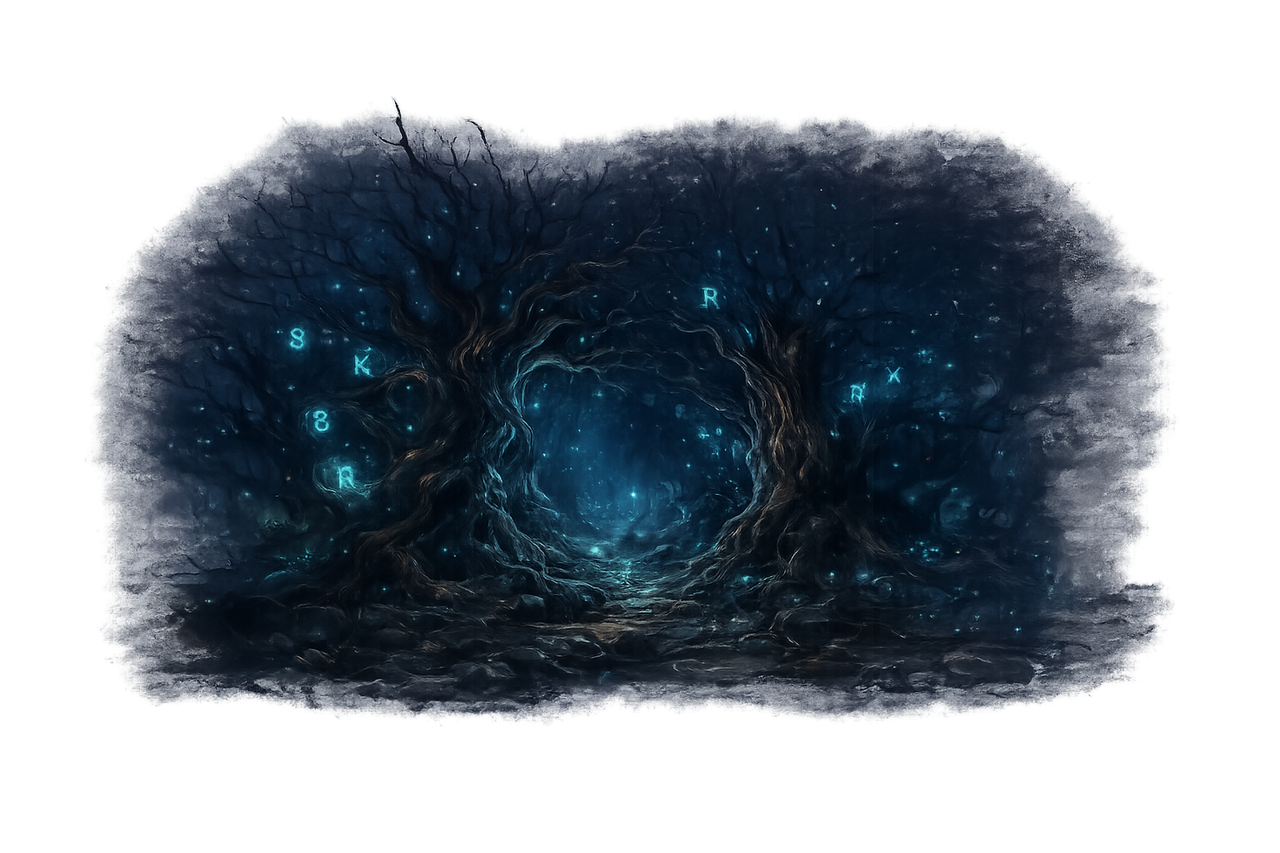
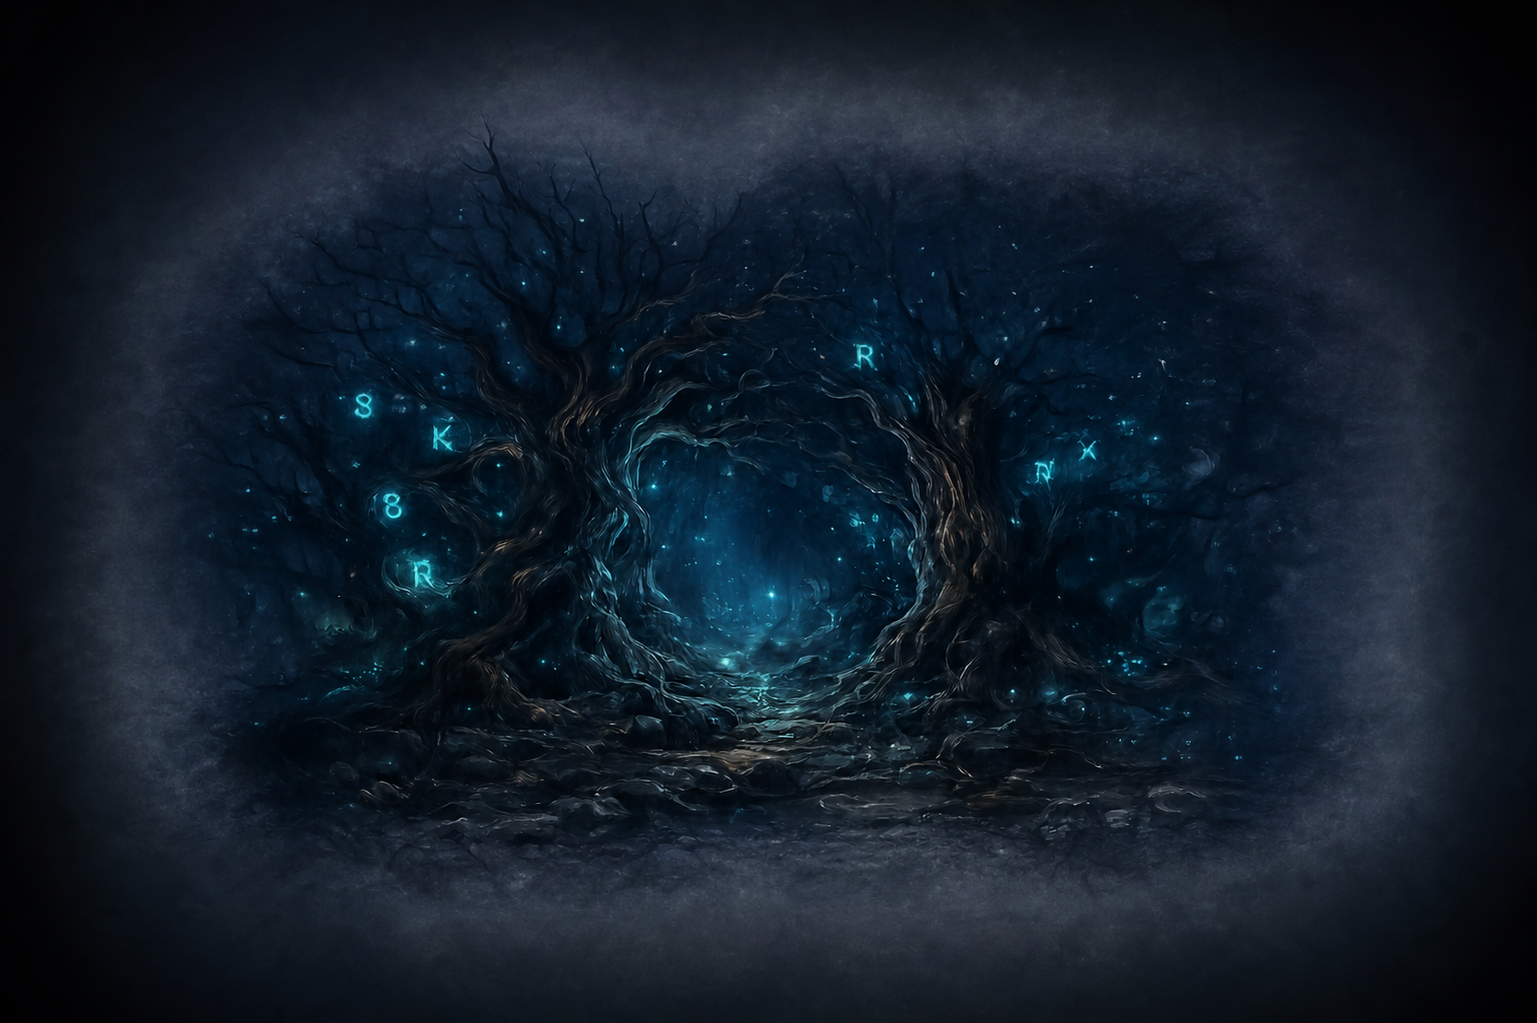
Фиксанул карту - теперь изображения не так агрессивно наслаиваются, сами изображения тоже заменил для достижения нужного эффекта

diff --git a/frontend/roadmap.html b/frontend/roadmap.html
@@ -4,7 +4,7 @@
 <head>
   <meta charset="UTF-8" />
   <meta name="viewport" content="width=device-width, initial-scale=1.0" />
-  <title>Дорожная карта — Путь Ведьмака</title>
+  <title>Дорожная карта</title>
   <script src="https://cdn.tailwindcss.com"></script>
   <link
     href="https://fonts.googleapis.com/css2?family=Cinzel:wght@400;600;700&family=Raleway:wght@300;400;500;600&display=swap"
@@ -18,15 +18,15 @@
 
     body {
       font-family: 'Raleway', sans-serif;
-      background-color: #081410;
+      background-color: #050a0a;
       overflow-x: hidden;
       background:
-        linear-gradient(rgba(8, 20, 16, 0.85),
-          rgba(8, 20, 16, 0.95)),
+        radial-gradient(ellipse at 20% 50%, rgba(20, 40, 30, 0.6) 0%, transparent 60%),
+        radial-gradient(ellipse at 80% 50%, rgba(40, 30, 15, 0.5) 0%, transparent 60%),
+        linear-gradient(180deg, rgba(5, 10, 10, 0.92) 0%, rgba(8, 16, 14, 0.85) 40%, rgba(5, 10, 10, 0.95) 100%),
         url('./images/roadmap_page_background.jpg') center / cover no-repeat fixed;
 
-      background-color: #081410;
-      /* fallback */
+      background-color: #050a0a;
     }
 
     .title-font {
@@ -39,7 +39,7 @@
       overflow-y: hidden;
       cursor: grab;
       scrollbar-width: thin;
-      scrollbar-color: rgba(52, 211, 153, 0.45) rgba(8, 20, 16, 0.5);
+      scrollbar-color: rgba(197, 166, 124, 0.45) rgba(5, 10, 10, 0.5);
       -webkit-overflow-scrolling: touch;
     }
 
@@ -52,16 +52,16 @@
     }
 
     .map-scroll::-webkit-scrollbar-track {
-      background: rgba(8, 20, 16, 0.5);
+      background: rgba(5, 10, 10, 0.5);
     }
 
     .map-scroll::-webkit-scrollbar-thumb {
-      background: rgba(52, 211, 153, 0.45);
+      background: rgba(197, 166, 124, 0.45);
       border-radius: 3px;
     }
 
     .map-scroll::-webkit-scrollbar-thumb:hover {
-      background: rgba(52, 211, 153, 0.75);
+      background: rgba(197, 166, 124, 0.75);
     }
 
     .map-canvas {
@@ -73,7 +73,7 @@
       position: absolute;
       inset: 0;
       z-index: 0;
-      background: #081410 url('./images/roadmap_back.png') center / cover no-repeat;
+      background: #050a0a url('./images/roadmap_back.png') center / cover no-repeat;
     }
 
     .node-img {
@@ -108,13 +108,10 @@
       z-index: 2;
       pointer-events: none;
       background: linear-gradient(to bottom,
-          rgba(8, 20, 16, 0.78) 0%, transparent 16%,
-          transparent 78%, rgba(8, 20, 16, 0.88) 100%);
+          rgba(5, 10, 10, 0.82) 0%, transparent 16%,
+          transparent 78%, rgba(5, 10, 10, 0.92) 100%);
     }
 
-    /* ══════════════════════════════════════
-       ТУМАН — накладываем PNG-спрайты
-    ══════════════════════════════════════ */
     .fog-layer {
       position: absolute;
       top: 0;
@@ -122,7 +119,6 @@
       z-index: 25;
       pointer-events: none;
       overflow: hidden;
-      /* Мягкое появление слева */
       -webkit-mask-image: linear-gradient(to right,
           transparent 0%, rgba(0, 0, 0, .2) 5%, rgba(0, 0, 0, .65) 15%, #000 28%, #000 100%);
       mask-image: linear-gradient(to right,
@@ -132,16 +128,13 @@
     .fog-sprite {
       position: absolute;
       background-image: url('./images/fog.png');
-      /* ← твой PNG */
       background-repeat: no-repeat;
       background-size: 100% 100%;
-      /* Белый фон → чёрный, дым → светлый; screen убирает чёрное */
       filter: invert(1) brightness(1.1) contrast(0.95);
       mix-blend-mode: screen;
       will-change: transform;
     }
 
-    /* Плавный дрейф */
     @keyframes fog-drift-a {
       0% {
         transform: translate3d(0, 0, 0) scaleX(1);
@@ -233,22 +226,22 @@
     }
 
     .node-icon.completed {
-      border-color: #34d399;
-      background: rgba(13, 35, 24, 0.88);
-      color: #34d399;
-      box-shadow: 0 0 18px rgba(52, 211, 153, 0.5), 0 0 40px rgba(52, 211, 153, 0.2);
+      border-color: #c5a67c;
+      background: rgba(10, 18, 14, 0.88);
+      color: #c5a67c;
+      box-shadow: 0 0 18px rgba(197, 166, 124, 0.45), 0 0 40px rgba(197, 166, 124, 0.2);
     }
 
     .node-icon.active {
-      border-color: #fbbf24;
-      background: rgba(26, 20, 8, 0.88);
-      color: #fbbf24;
-      box-shadow: 0 0 18px rgba(251, 191, 36, 0.5), 0 0 40px rgba(251, 191, 36, 0.2);
+      border-color: #d4a843;
+      background: rgba(30, 22, 8, 0.9);
+      color: #d4a843;
+      box-shadow: 0 0 25px rgba(212, 168, 67, 0.6), 0 0 50px rgba(212, 168, 67, 0.25);
     }
 
     .node-icon.locked {
       border-color: #6b7280;
-      background: rgba(20, 24, 26, 0.65);
+      background: rgba(16, 20, 20, 0.65);
       color: #b6bcc2;
       backdrop-filter: blur(2px);
     }
@@ -273,9 +266,9 @@
       width: 40px;
       height: 40px;
       border-radius: 50%;
-      border: 1px solid rgba(52, 211, 153, 0.35);
-      background: rgba(8, 20, 16, 0.75);
-      color: #34d399;
+      border: 1px solid rgba(197, 166, 124, 0.35);
+      background: rgba(5, 10, 10, 0.75);
+      color: #c5a67c;
       display: flex;
       align-items: center;
       justify-content: center;
@@ -292,7 +285,7 @@
     }
 
     .nav-btn:hover {
-      background: rgba(52, 211, 153, 0.15);
+      background: rgba(197, 166, 124, 0.15);
     }
 
     .nav-btn.left {
@@ -304,7 +297,7 @@
     }
 
     .quote-box {
-      border: 1px solid rgba(52, 211, 153, 0.3);
+      border: 1px solid rgba(197, 166, 124, 0.3);
       background: rgba(0, 0, 0, 0.3);
       backdrop-filter: blur(8px);
     }
@@ -333,10 +326,10 @@
 <body>
 
   <div class="w-full text-center pt-12 pb-10 px-4">
-    <p class="text-[#4ade80] tracking-[0.4em] text-xs uppercase mb-4 title-font">Путь Книгочея</p>
+    <p class="text-[#c5a67c] tracking-[0.4em] text-xs uppercase mb-4 title-font">Путь Книгочея</p>
     <h1 class="text-4xl sm:text-6xl font-bold mb-6 leading-tight">
       <span class="text-white title-font">Дорожная </span>
-      <span class="text-[#d4a843] title-font">карта</span>
+      <span class="text-[#d4b483] title-font">карта</span>
     </h1>
     <p class="text-gray-400 text-sm sm:text-base max-w-lg mx-auto leading-relaxed">
       Путь к мастерству долог и полон испытаний. Следи за этапами развития<br class="hidden sm:block" />
@@ -373,7 +366,7 @@
       <p class="text-gray-300 text-xs sm:text-sm text-center italic leading-relaxed">
         «Каждая страница приближает к истине, каждый шаг — к себе настоящему»
       </p>
-      <svg class="w-5 h-5 text-[#34d399] flex-shrink-0 opacity-50" fill="currentColor" viewBox="0 0 24 24">
+      <svg class="w-5 h-5 text-[#c5a67c] flex-shrink-0 opacity-50" fill="currentColor" viewBox="0 0 24 24">
         <path
           d="M3 17.25V21h3.75L17.81 9.94l-3.75-3.75L3 17.25zM20.71 7.04a1 1 0 000-1.41l-2.34-2.34a1 1 0 00-1.41 0l-1.83 1.83 3.75 3.75 1.83-1.83z" />
       </svg>
@@ -381,7 +374,6 @@
   </div>
 
   <script>
-    /* ═══════════ ДАННЫЕ ═══════════ */
     const NODES = [
       { title: 'Долина\nПервых Строк', status: 'completed', statusLabel: 'Пройдено', image: './images/dolina.png', wave: 0.85 },
       { title: 'Замок\nСпящего Дракона', status: 'completed', statusLabel: 'Пройдено', image: './images/dragon.png', wave: 0.25 },
@@ -392,36 +384,26 @@
     ];
 
     const CFG = {
-      nodeStep: 350, minStep: 180, sidePad: 130, imgRatio: 1.85,
+      nodeStep: 550, minStep: 180, sidePad: 130, imgRatio: 1.9,
       iconBottomMin: 0.14, iconBottomMax: 0.42,
-      fogLeadIn: 0.7,        // насколько туман заходит влево от первого locked (в долях step)
+      fogLeadIn: 0.7,
     };
 
-    /* Раскладка спрайтов тумана.
-       x/y/w/h — доли от размера fog-зоны. Спрайты перекрываются → сплошная пелена. */
     const FOG_SPRITES = [
-      // Нижний ярус — самый плотный, покрывает весь низ
       { x: -0.15, y: 0.55, w: 0.70, h: 0.80, op: 0.75, anim: 'fog-drift-a', dur: 38, delay: 0, flip: false },
       { x: 0.25, y: 0.50, w: 0.75, h: 0.75, op: 0.70, anim: 'fog-drift-b', dur: 44, delay: -10, flip: true },
       { x: 0.55, y: 0.52, w: 0.65, h: 0.72, op: 0.68, anim: 'fog-drift-c', dur: 40, delay: -20, flip: false },
-
-      // Средний ярус
       { x: -0.10, y: 0.25, w: 0.80, h: 0.75, op: 0.60, anim: 'fog-drift-b', dur: 50, delay: -5, flip: true },
       { x: 0.20, y: 0.20, w: 0.85, h: 0.70, op: 0.55, anim: 'fog-drift-c', dur: 35, delay: -18, flip: false },
       { x: 0.50, y: 0.28, w: 0.75, h: 0.68, op: 0.52, anim: 'fog-drift-a', dur: 55, delay: -28, flip: true },
-
-      // Верхний ярус — чуть прозрачнее
       { x: 0.00, y: -0.10, w: 0.85, h: 0.65, op: 0.45, anim: 'fog-drift-a', dur: 60, delay: -8, flip: false },
       { x: 0.30, y: -0.05, w: 0.80, h: 0.60, op: 0.40, anim: 'fog-drift-c', dur: 48, delay: -35, flip: true },
       { x: 0.60, y: -0.08, w: 0.70, h: 0.58, op: 0.38, anim: 'fog-drift-b', dur: 42, delay: -15, flip: false },
-
-      // Перекрывающие «заплатки» — закрывают дыры
       { x: 0.10, y: 0.38, w: 0.90, h: 0.55, op: 0.50, anim: 'fog-drift-b', dur: 45, delay: -25, flip: false },
       { x: 0.40, y: 0.42, w: 0.80, h: 0.60, op: 0.48, anim: 'fog-drift-a', dur: 36, delay: -12, flip: true },
       { x: 0.70, y: 0.35, w: 0.75, h: 0.65, op: 0.45, anim: 'fog-drift-c', dur: 52, delay: -40, flip: false },
     ];
 
-    /* ═══════════ DOM ═══════════ */
     const scrollEl = document.getElementById('mapScroll');
     const canvasEl = document.getElementById('mapCanvas');
     const imgsLayer = document.getElementById('imagesLayer');
@@ -435,14 +417,13 @@
       check: `<svg width="22" height="22" fill="none" stroke="currentColor" stroke-width="2.5" viewBox="0 0 24 24"><path stroke-linecap="round" stroke-linejoin="round" d="M5 13l4 4L19 7"/></svg>`,
       lock: `<svg width="17" height="17" fill="currentColor" viewBox="0 0 24 24"><path d="M12 1C8.676 1 6 3.676 6 7v1H4v15h16V8h-2V7c0-3.324-2.676-6-6-6zm0 2c2.276 0 4 1.724 4 4v1H8V7c0-2.276 1.724-4 4-4zm0 9a2 2 0 110 4 2 2 0 010-4z"/></svg>`,
     };
-    const statusColor = s => ({ completed: '#34d399', active: '#fbbf24', locked: '#a8b0b6' }[s]);
+    const statusColor = s => ({ completed: '#c5a67c', active: '#d4b483', locked: '#a8b0b6' }[s]);
     const getIconSize = () => window.matchMedia('(max-width:640px)').matches ? 42 : 52;
 
-    /* ═══════════ ТУМАН ═══════════ */
     function buildFog(fogLeft, fogW, fogH) {
       fogLayer.hidden = false;
       fogLayer.style.left = fogLeft + 'px';
-      fogLayer.style.width = (fogW + 200) + 'px'; /* +200px запас справа */
+      fogLayer.style.width = (fogW + 200) + 'px';
       fogLayer.innerHTML = '';
 
       FOG_SPRITES.forEach(s => {
@@ -464,7 +445,6 @@
       fogLayer.innerHTML = '';
     }
 
-    /* ═══════════ РЕНДЕР ═══════════ */
     function render() {
       const n = NODES.length;
       if (!n) return;
@@ -487,7 +467,6 @@
         return mapH - b - iconSize;
       };
 
-      /* картинки */
       imgsLayer.innerHTML = '';
       const imgW = Math.round(step * CFG.imgRatio);
       NODES.forEach((node, i) => {
@@ -502,7 +481,6 @@
         imgsLayer.appendChild(el);
       });
 
-      /* туман */
       const lockStart = NODES.findIndex(nd => nd.status === 'locked');
       if (lockStart < 0) {
         hideFog();
@@ -511,7 +489,6 @@
         buildFog(fogLeft, totalW - fogLeft, mapH);
       }
 
-      /* ноды */
       nodesLayer.innerHTML = '';
       NODES.forEach((node, i) => {
         const el = document.createElement('div');
@@ -537,7 +514,6 @@
       requestAnimationFrame(() => { drawPath(totalW, mapH); updateNavButtons(); });
     }
 
-    /* ═══════════ ПУТЬ ═══════════ */
     function drawPath(totalW, mapH) {
       const cr = canvasEl.getBoundingClientRect();
       const pts = Array.from(nodesLayer.querySelectorAll('.node-icon')).map(ic => {
@@ -569,14 +545,13 @@
 
       let svg = '';
       if (ls > 0)
-        svg += `<path d="${mk(0, ls)}" fill="none" stroke="#d4a843" stroke-width="2.5" stroke-linecap="round" class="dash-gold"/>`;
+        svg += `<path d="${mk(0, ls)}" fill="none" stroke="#d4b483" stroke-width="2.5" stroke-linecap="round" class="dash-gold"/>`;
       if (ls < n - 1)
         svg += `<path d="${mk(Math.max(ls - 1, 0), n - 1)}" fill="none" stroke="#6b7280" stroke-width="2" stroke-linecap="round" class="dash-gray"/>`;
 
       pathSvg.innerHTML = svg;
     }
 
-    /* ═══════════ НАВИГАЦИЯ ═══════════ */
     function updateNavButtons() {
       const max = scrollEl.scrollWidth - scrollEl.clientWidth;
       const has = max > 4;
@@ -603,6 +578,8 @@
     render();
     let rt;
     window.addEventListener('resize', () => { clearTimeout(rt); rt = setTimeout(render, 120); });
+
+    
   </script>
 </body>
 
